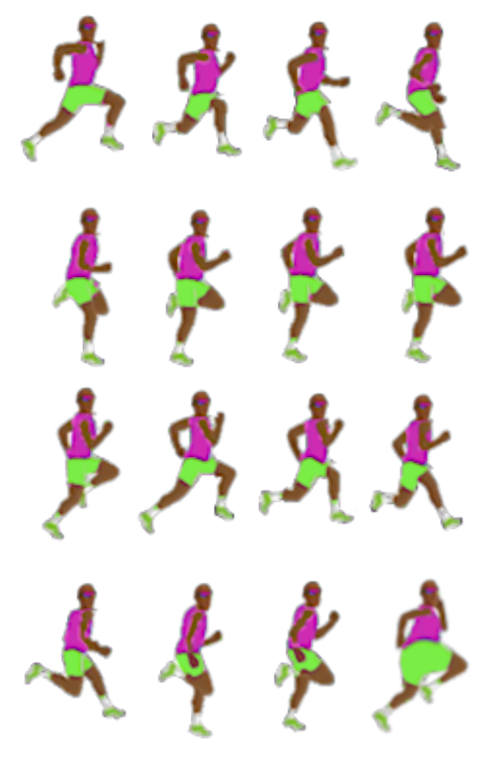
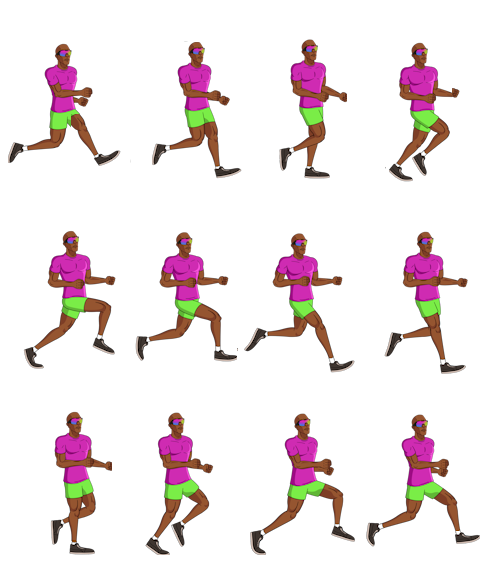
player animation

diff --git a/kandi.js b/kandi.js
@@ -9,9 +9,9 @@ var ground = [], water = [], enemies = [], environment = [];
 
 // platform variables
 var platformHeight, platformLength, gapLength;
-var platformWidth = 32;
+var platformWidth = 64;
 var platformBase = canvas.height - platformWidth;  // bottom row of the game
-var platformSpacer = 64;
+var platformSpacer = 128;
 
 var canUseLocalStorage = 'localStorage' in window && window.localStorage !== null;
 var playSound;
@@ -381,23 +381,47 @@ var player = (function(player) {
   // add properties directly to the player imported object
   player.width     = 120;
   player.height    = 188;
-  player.speed     = 7;
+  player.speed     = 10;
 
   // jumping
   player.gravity   = 1;
   player.dy        = 0;
-  player.jumpDy    = -16;
+  player.jumpDy    = -20;
   player.isFalling = false;
   player.isJumping = false;
+// Initialize the spritesheet for the player with the given image file and frame dimensions
+player.sheet = new SpriteSheet('imgs/normal_walk.png', player.width, player.height);
+player.sheet2 = new SpriteSheet('imgs/normal_jump.png', player.width, player.height);
 
-  // spritesheets
-  player.sheet     = new SpriteSheet('imgs/normal_walk.png', player.width, player.height);
-  player.walkAnim  = new Animation(player.sheet, 4, 0, 15);
-  player.jumpAnim  = new Animation(player.sheet, 4, 15, 15);
-  player.fallAnim  = new Animation(player.sheet, 4, 11, 11);
-  player.anim      = player.walkAnim;
+// Create an animation for walking:
+// - Uses the player's spritesheet
+// - Has 4 frames
+// - Starts at frame index 0
+// - Plays at a frame rate of 15 frames per second (or duration for 15 frames)
+player.walkAnim = new Animation(player.sheet, 4, 0, 11);
 
-  Vector.call(player, 0, 0, 0, player.dy);
+// Create an animation for jumping:
+// - Uses the player's spritesheet
+// - Has 4 frames
+// - Starts at frame index 15
+// - Plays at a frame rate of 15 frames per second
+player.jumpAnim = new Animation(player.sheet2, 11, 0, 0);
+
+// Create an animation for falling:
+// - Uses the player's spritesheet
+// - Has 4 frames
+// - Starts at frame index 11
+// - Plays at a frame rate of 11 frames per second
+player.fallAnim = new Animation(player.sheet, 2, 0, 11);
+
+// Set the player's default animation to walking
+player.anim = player.walkAnim;
+
+// Initialize the player as a vector using the Vector class:
+// - Sets the x, y, and z positions to 0
+// - Sets the player's vertical velocity to `player.dy`
+Vector.call(player, 0, 0, 0, player.dy);
+
 
   var jumpCounter = 0;  // how long the jump button can be pressed down
 
@@ -559,7 +583,7 @@ function getType() {
             if (player.minDist(ground[i]) <= player.height/2 + 32 && // Adjusted collision detection for narrower platforms
                 (angle = Math.atan2(player.y - ground[i].y, player.x - ground[i].x) * 180/Math.PI) > -130 &&
                 angle < -50) {
-                player.isJumping = false;
+                player.isJumping = false;	
                 player.isFalling = false;
                 player.y = ground[i].y - player.height + 5;
                 player.dy = 0;
